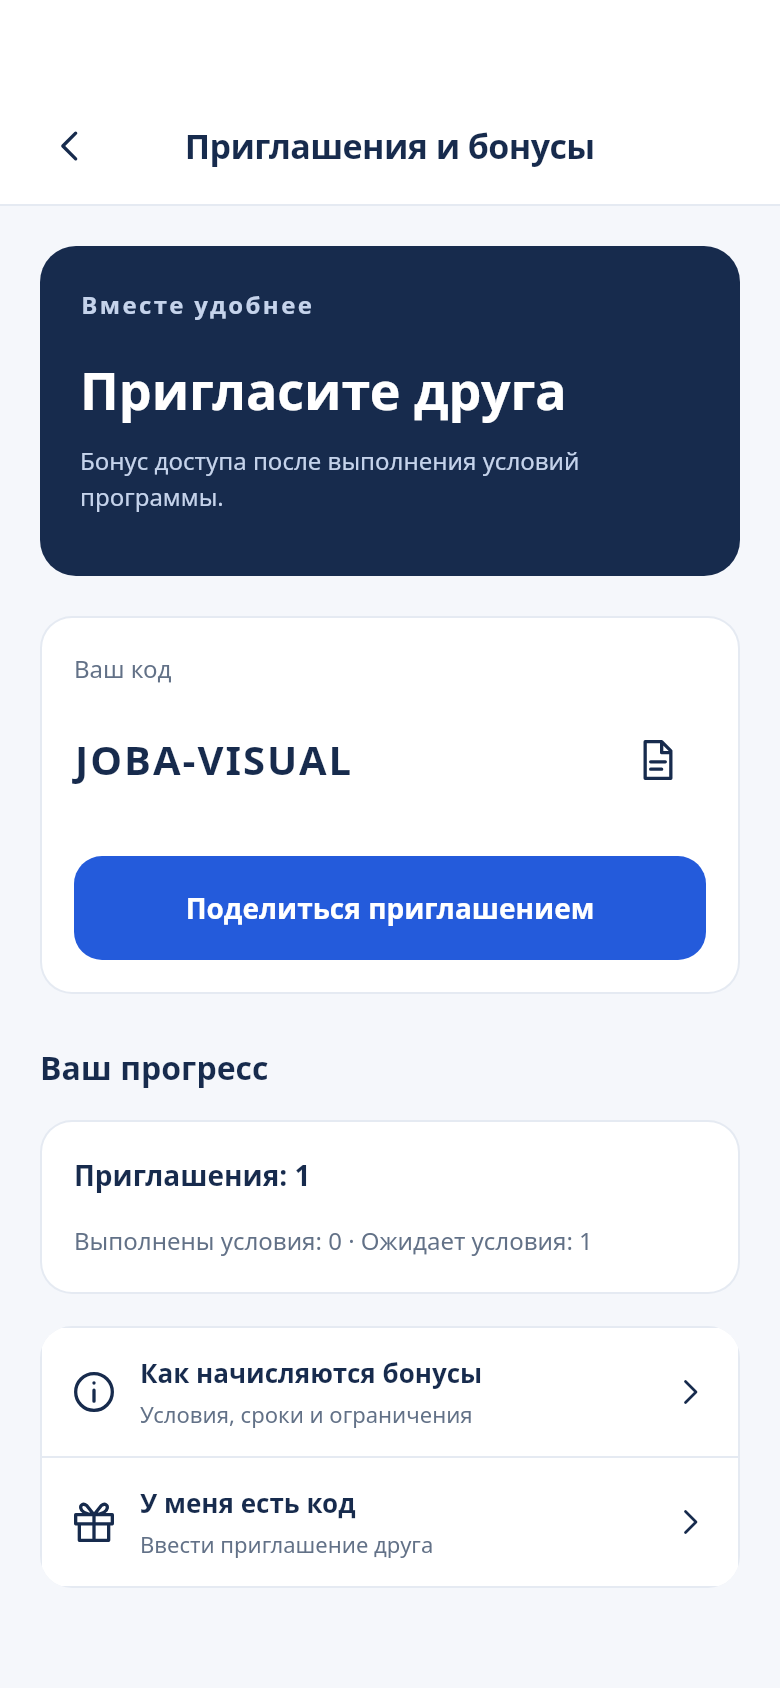
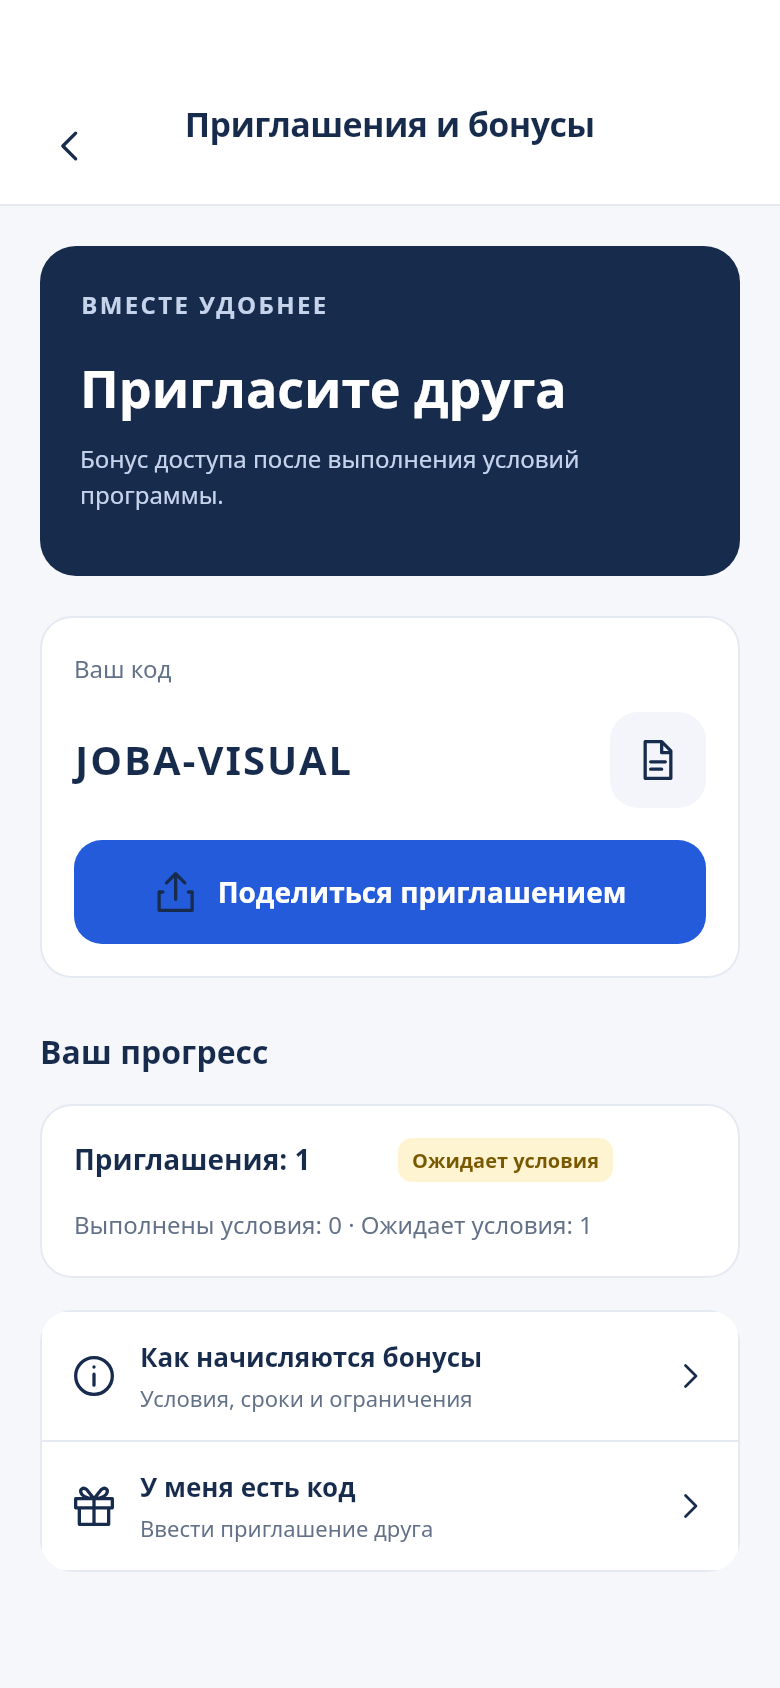
fix: align referral invitation controls and spacing with prototype

diff --git a/apps/mobile/lib/screens/marketplace.dart b/apps/mobile/lib/screens/marketplace.dart
@@ -4670,10 +4670,11 @@ class _MarketplaceState extends State<Marketplace> with WidgetsBindingObserver {
               child: Column(
                   crossAxisAlignment: CrossAxisAlignment.start,
                   children: [
-                    const UiText('Вместе удобнее',
-                        style: TextStyle(
+                    UiText(localize(context, 'Вместе удобнее').toUpperCase(),
+                        style: const TextStyle(
                             color: Color(0xFFC5D3EB),
                             fontSize: 12,
+                            height: 1.5,
                             letterSpacing: 1.2,
                             fontWeight: FontWeight.w700)),
                     const SizedBox(height: 16),
@@ -4714,6 +4715,11 @@ class _MarketplaceState extends State<Marketplace> with WidgetsBindingObserver {
                                   letterSpacing: 1,
                                   fontWeight: FontWeight.w700))),
                       IconButton(
+                          style: IconButton.styleFrom(
+                            backgroundColor: const Color(0xFFF3F5FA),
+                            fixedSize: const Size(48, 48),
+                            shape: RoundedRectangleBorder(borderRadius: BorderRadius.circular(14)),
+                          ),
                           tooltip: localize(context, 'Скопировать код'),
                           onPressed: () => act(() async {
                                 await Clipboard.setData(
@@ -4722,14 +4728,17 @@ class _MarketplaceState extends State<Marketplace> with WidgetsBindingObserver {
                               }),
                           icon: const JobaIcon('file'))
                     ]),
-                    const SizedBox(height: 12),
-                    button(
-                        'Поделиться приглашением',
-                        () => act(() async {
+                    const SizedBox(height: 16),
+                    FilledButton(
+                        onPressed: actionBusy ? null : () => act(() async {
                               final shown = await shareInvitation(
                                   '${localize(context, 'Код приглашения')} JOBA: ${data['code']}');
                               if (!shown && mounted) success('Код скопирован');
-                            }))
+                            }),
+                        child: const Row(mainAxisAlignment: MainAxisAlignment.center, children: [
+                          JobaIcon('share'), SizedBox(width: 10),
+                          Flexible(child: UiText('Поделиться приглашением', textAlign: TextAlign.center))
+                        ]))
                   ])),
           const SizedBox(height: 24),
           const UiText('Ваш прогресс',
@@ -4744,9 +4753,16 @@ class _MarketplaceState extends State<Marketplace> with WidgetsBindingObserver {
               child: Column(
                   crossAxisAlignment: CrossAxisAlignment.start,
                   children: [
-                    Text(
+                    Row(children: [
+                      Expanded(child: Text(
                         '${localize(context, 'Приглашения')}: ${attributions.length}',
-                        style: const TextStyle(fontWeight: FontWeight.w700)),
+                        style: const TextStyle(fontWeight: FontWeight.w700))),
+                      const SizedBox(width: 8),
+                      if (attributions.isNotEmpty) Flexible(child: JobaBadge(
+                        qualified > 0 ? 'Выполнены условия' : 'Ожидает условия',
+                        background: qualified > 0 ? const Color(0xFFEAF5EE) : const Color(0xFFFFF4D1),
+                        foreground: qualified > 0 ? const Color(0xFF327453) : const Color(0xFF785800))),
+                    ]),
                     const SizedBox(height: 12),
                     Text(
                         '${localize(context, 'Выполнены условия')}: $qualified · ${localize(context, 'Ожидает условия')}: ${attributions.length - qualified}',
@@ -4776,7 +4792,7 @@ class _MarketplaceState extends State<Marketplace> with WidgetsBindingObserver {
                 subtitle: 'Ввести приглашение друга')
           ])
         ]);
-      }));
+      }), titleOffset: -11);
   Widget portfolioScreen() => page(
           'Моё портфолио',
           loaded('/me/portfolio-projects', (data, reload) {

diff --git a/docs/mobile-referral-terms-update.md b/docs/mobile-referral-terms-update.md
@@ -11,3 +11,11 @@
 Проверки: анализ Flutter — 0 замечаний; полный мобильный набор — 84 успешно, 2 пропущены; после уточнения отображения неизвестного события повторно прошли 3 целевых теста (условия, границы активации, навигация). Изолированная проверка Flutter ↔ HTTP API — 1 успешно. Серверный код не менялся.
 
 Визуальный набор снят повторно (115 кадров). Фикстура S37 не содержит наград и срока ввода кода; эти ветки проверены отдельными widget-тестами, а снимки не выдаются за их визуальную приёмку. Исходные иллюстрации перед запуском подготовлены штатным скриптом.
+
+## Визуальные правки S37
+
+Плашка копирования — 48×48, фон #F3F5FA, радиус 14; добавлена иконка share в действующую системную отправку. Убран лишний вертикальный отступ перед кнопкой отправки. Надпись героя приведена к верхнему регистру с сохранением перевода, заголовок AppBar сдвинут на 11 логических пикселей вверх по исходному S37. Реальные счётчики прогресса дополнены цветной плашкой; при отсутствии приглашений плашка ожидания не показывается.
+
+Исходный макет использует DEMO-код и обещает доступ обоим участникам. Эти данные не подменяют реальные код и условия API. Декоративный контур героя, точная типографика/высоты меню и состояния выдачи остаются в очереди визуальной сверки.
+
+Проверки визуальной правки: анализ — 0 замечаний; 4 целевых теста успешно (навигация, условия/сроки наград, системная отправка); визуальный набор — 115 кадров, без ошибок теста. S37 просмотрен рядом с исходником; приёмка остаётся pending.
